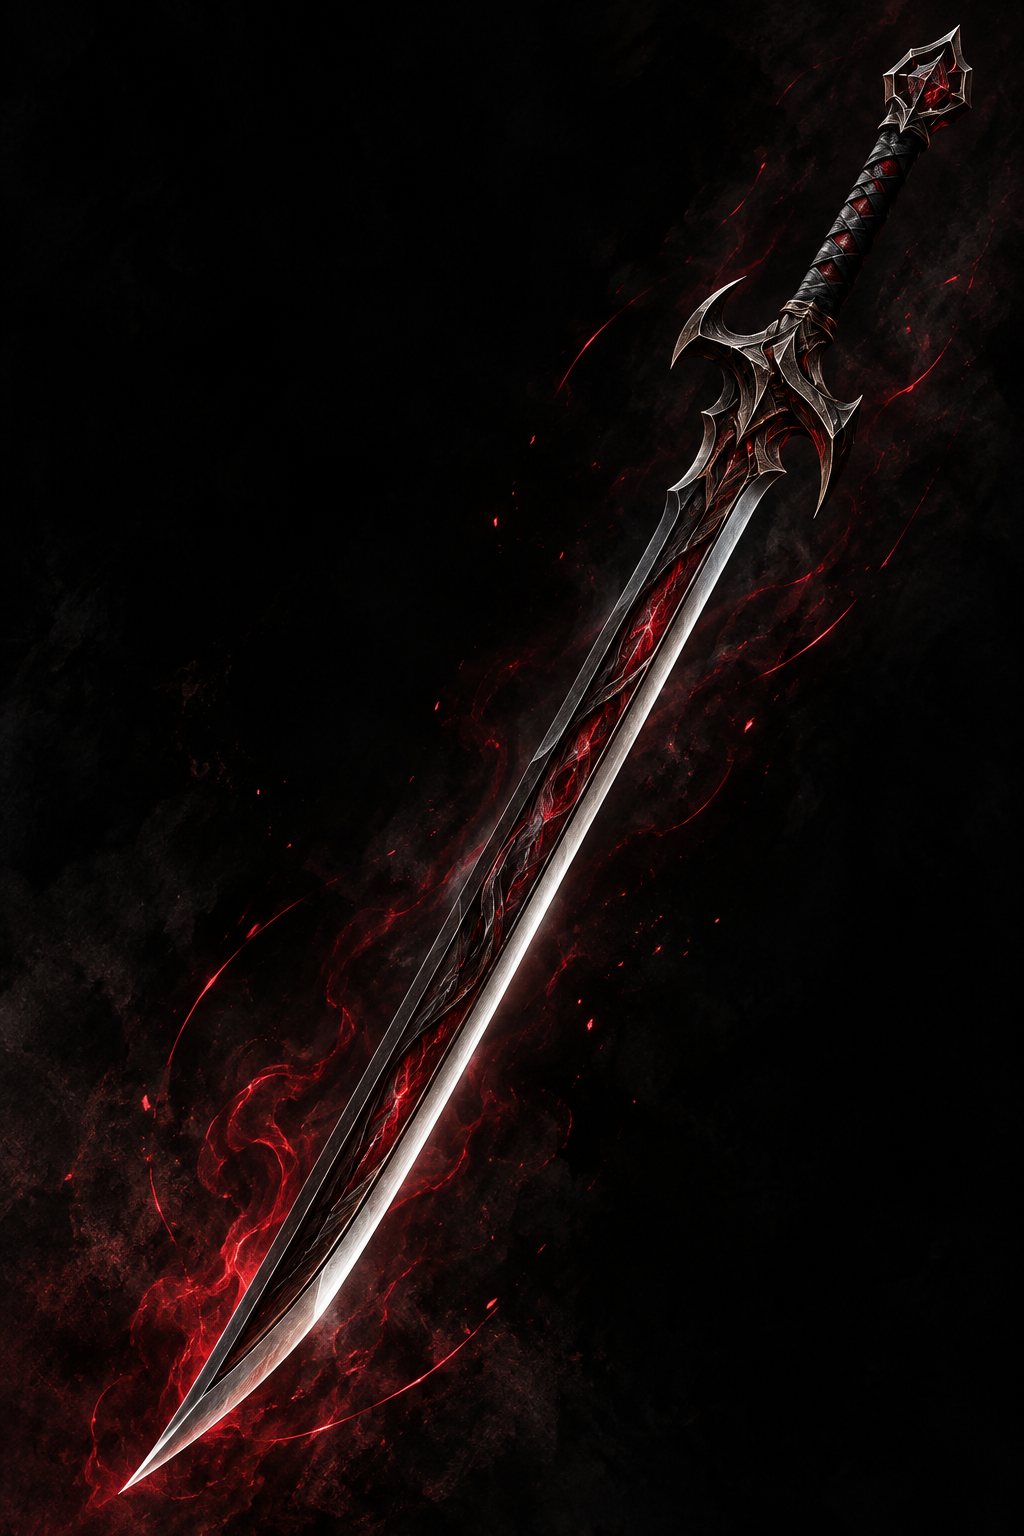
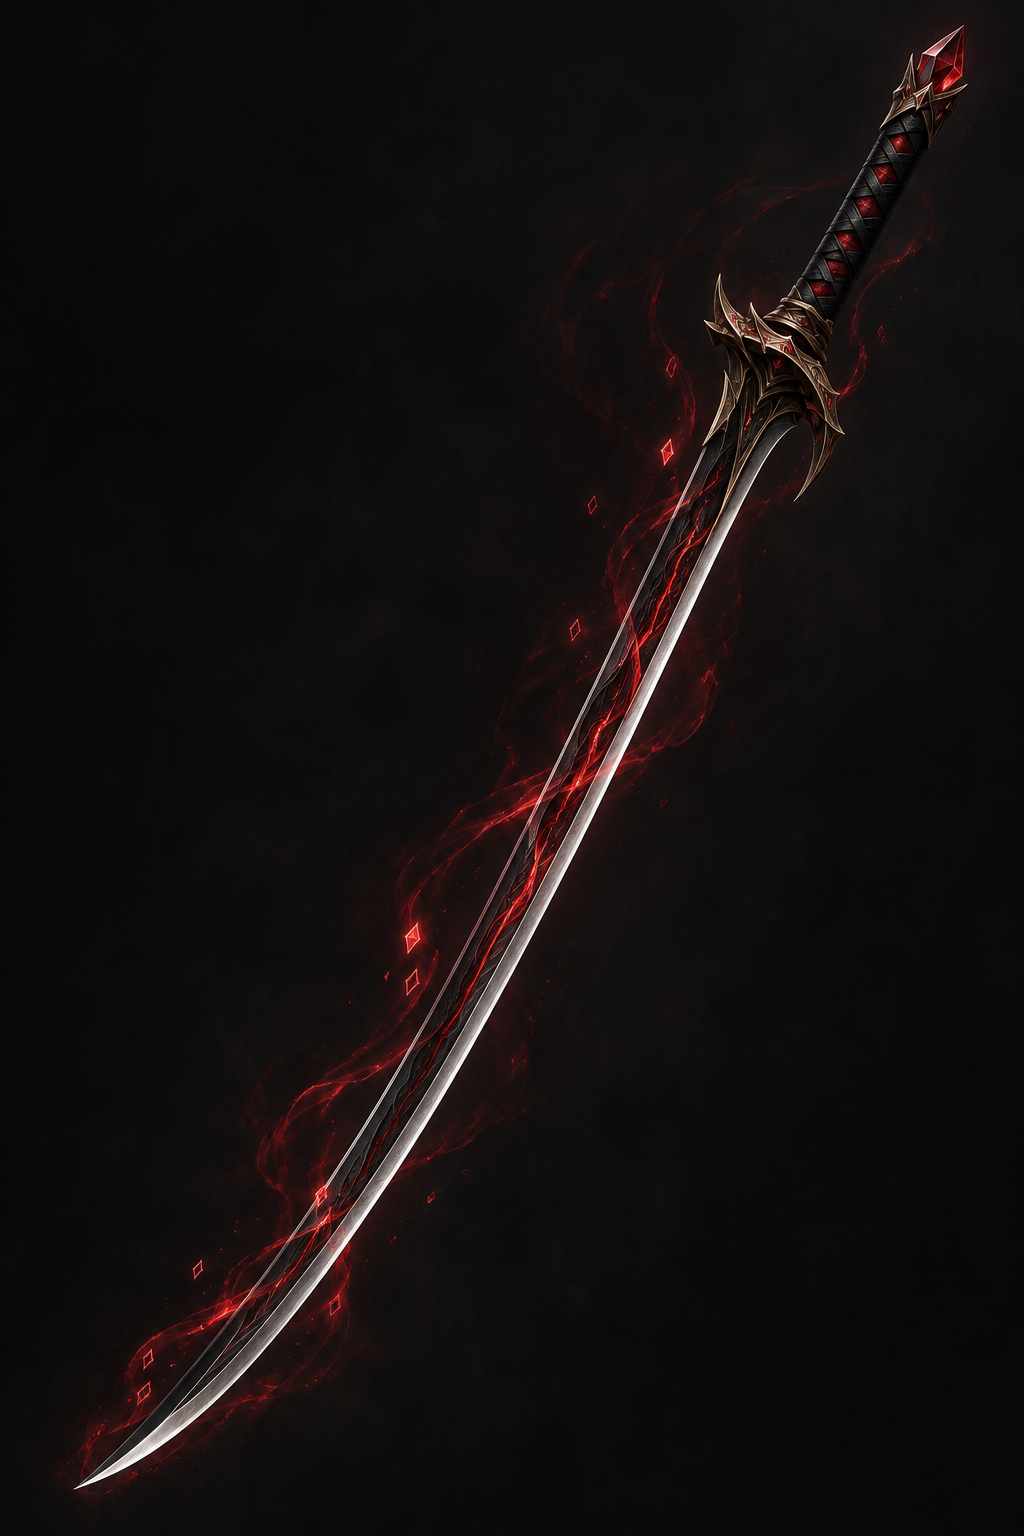
Redesign Sungu and Gwangmyeonggeom as thin sabers

diff --git a/js/app.js b/js/app.js
@@ -723,7 +723,7 @@
   ];
   // GitHub Pages may cache files with the same path for a while. Keep the
   // artwork revision here so an art replacement is visible immediately.
-  const SWORD_ART_VERSION = '20260911-gwangmyeong-diagonal-v7';
+  const SWORD_ART_VERSION = '20260911-sunggu-gwangmyeong-dao-v8';
 
   // A newly added sword can ship without artwork yet -- SWORD_ART_FILES[i]
   // stays an empty string until art is ready. Clearing the <img> src (not
